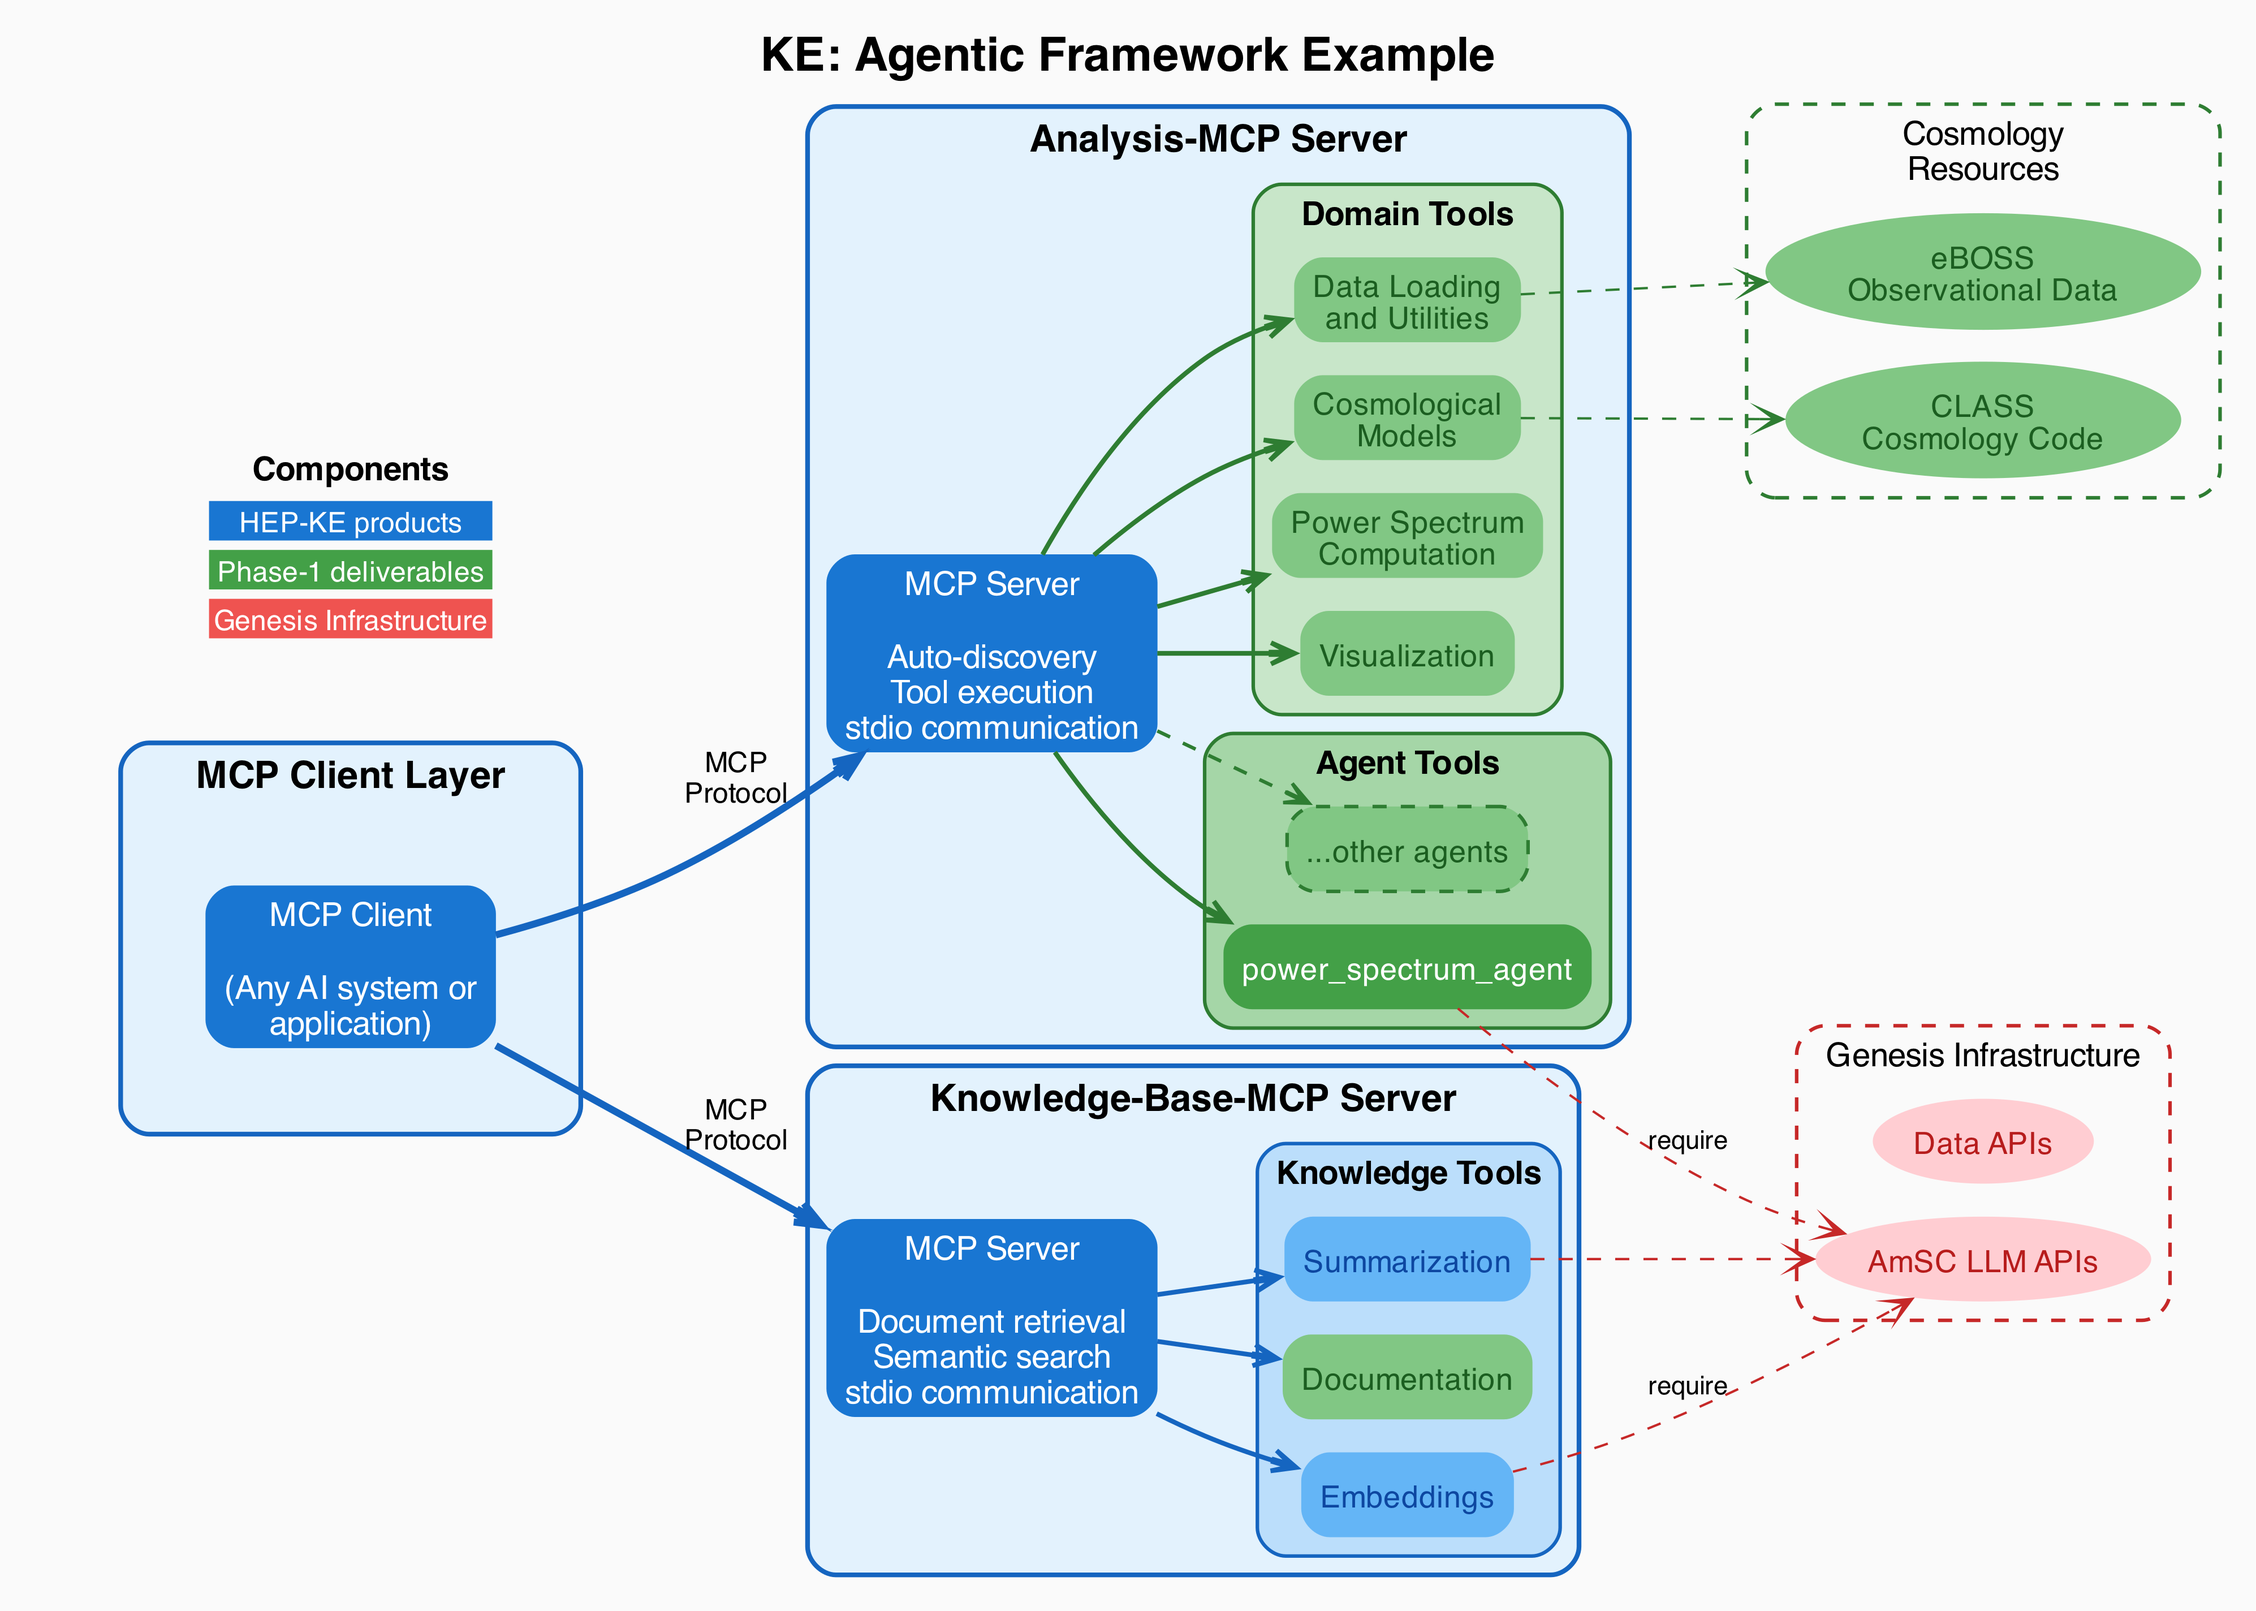
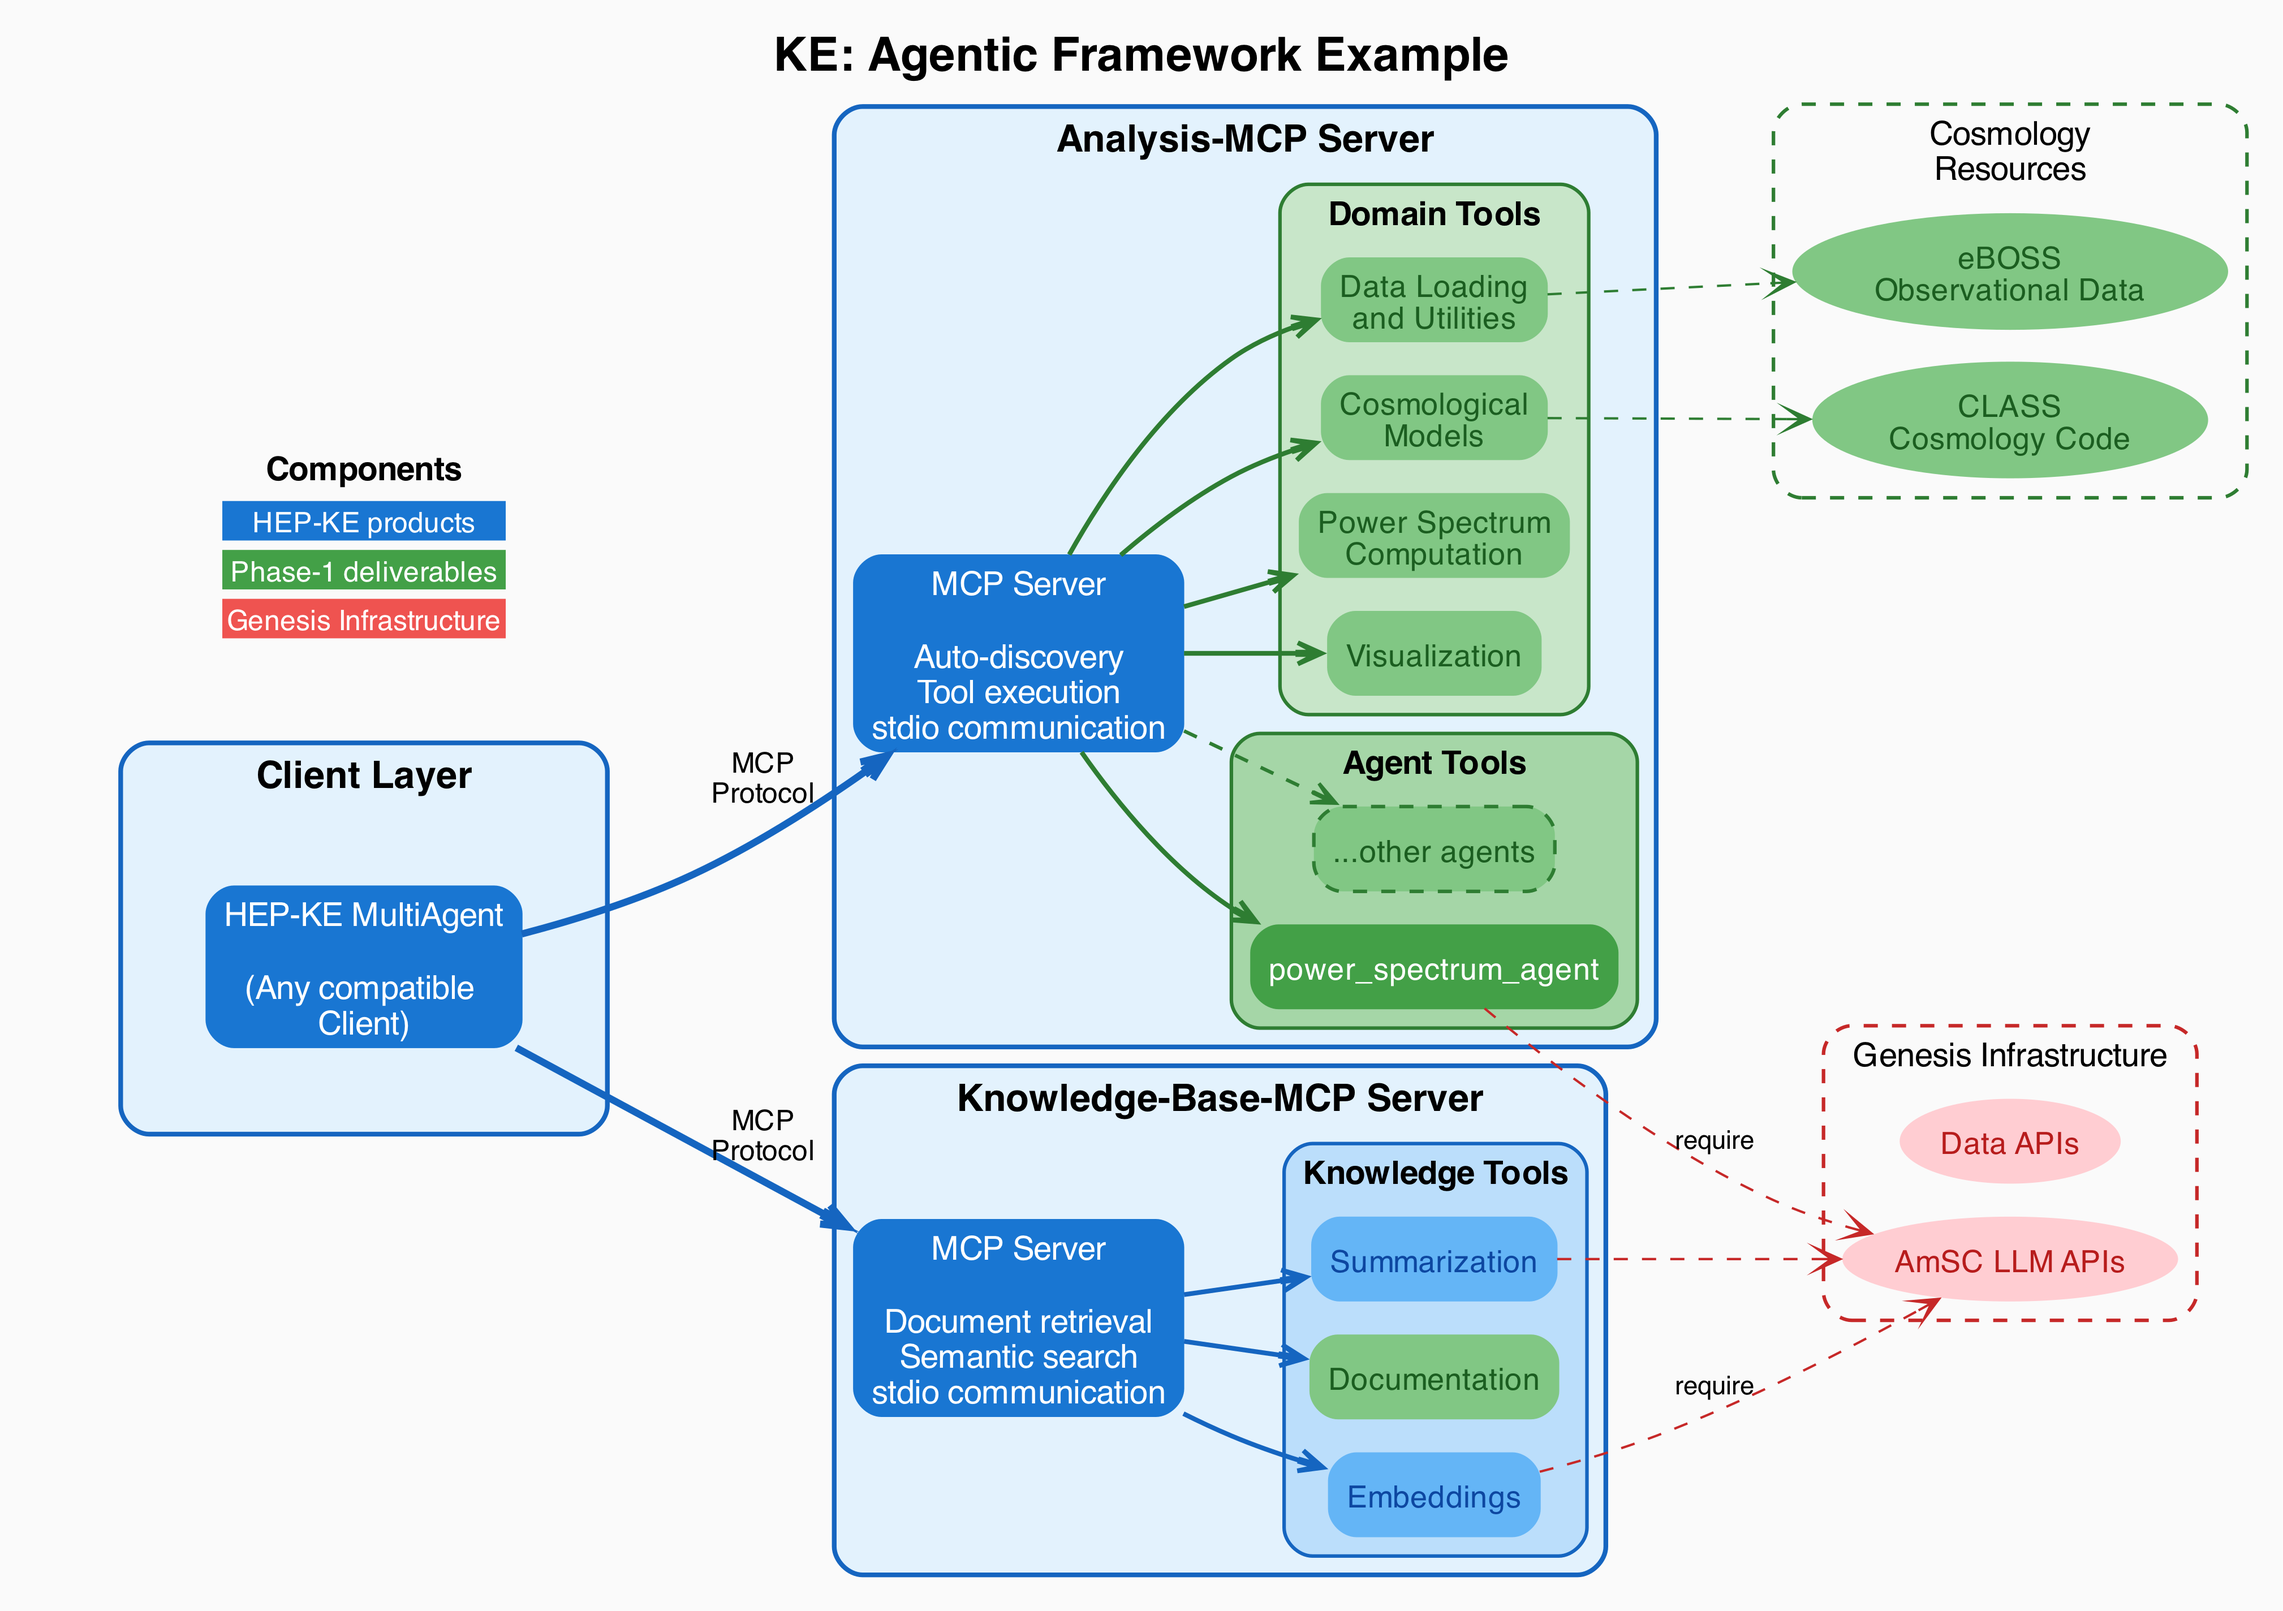
mu2e doc

diff --git a/documentation/flowchart_mu2e.py b/documentation/flowchart_mu2e.py
@@ -26,14 +26,14 @@ def generic_architecture():
 
     # MCP Client Layer
     with dot.subgraph(name='cluster_client') as c:
-        c.attr(label='MCP Client Layer',
+        c.attr(label='Client Layer',
                style='rounded,filled',
                fillcolor='#E8F4FD',
                color='#1976D2',
                penwidth='2',
                fontsize='16',
                fontname='Helvetica-Bold')
-        c.node('client', 'MCP Client\n\n(Any AI system or\napplication)',
+        c.node('client', 'HEP-KE MultiAgent\n\n(Any compatible \nClient)',
                shape='box',
                style='rounded,filled',
                fillcolor='#5E92F3',
@@ -328,14 +328,14 @@ def mu2e_architecture():
                   fontsize='14')
 
         with left.subgraph(name='cluster_client') as c:
-            c.attr(label='MCP Client Layer',
+            c.attr(label='Client Layer',
                    style='rounded,filled',
                    fillcolor=KE_CLUSTER_BG,
                    color=KE_CLUSTER_BORDER,
                    penwidth='2',
                    fontsize='16',
                    fontname='Helvetica-Bold')
-            c.node('client', 'MCP Client\n\n(Any AI system or\napplication)',
+            c.node('client', 'HEP-KE MultiAgent\n\n(Any compatible \nClient)',
                    shape='box',
                    style='rounded,filled',
                    fillcolor=KE_NODE_BG,
@@ -643,14 +643,14 @@ def cosmology_architecture():
                   fontsize='14')
 
         with left.subgraph(name='cluster_client') as c:
-            c.attr(label='MCP Client Layer',
+            c.attr(label='Client Layer',
                    style='rounded,filled',
                    fillcolor=KE_CLUSTER_BG,
                    color=KE_CLUSTER_BORDER,
                    penwidth='2',
                    fontsize='16',
                    fontname='Helvetica-Bold')
-            c.node('client', 'MCP Client\n\n(Any AI system or\napplication)',
+            c.node('client', 'HEP-KE MultiAgent\n\n(Any compatible \nClient)',
                    shape='box',
                    style='rounded,filled',
                    fillcolor=KE_NODE_BG,
